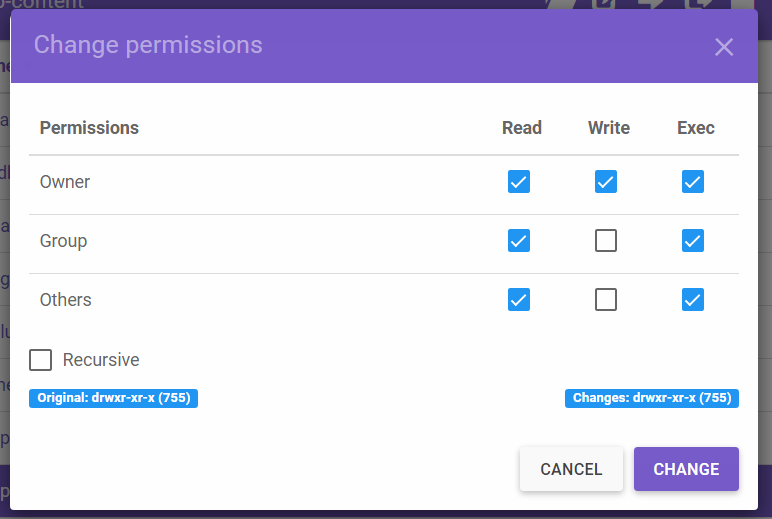
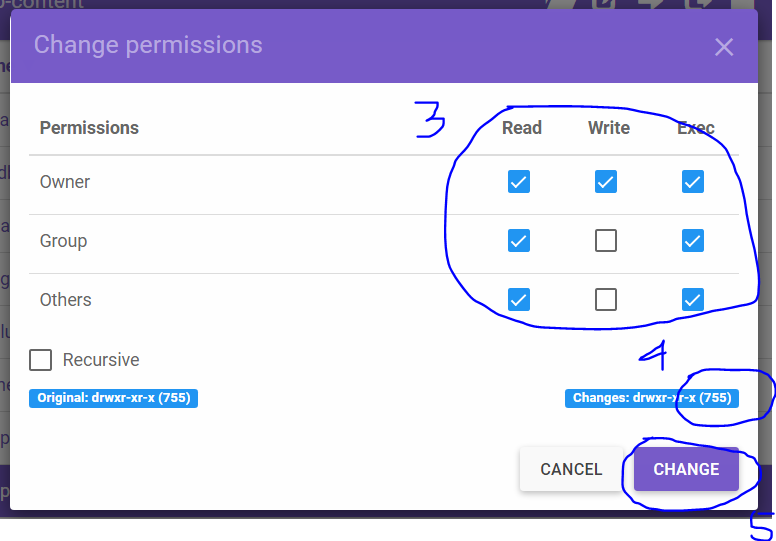
update

diff --git a/README.md b/README.md
@@ -22,5 +22,8 @@ Rubah permission menjadi 755. [Ganti Permission di Hostinger.co.id](https://www.
 
 2. Pilih icon gembok sesuai gambar diatas
 
+maka akan muncul gambar seperti berikut 
+
+![Alt Text](https://raw.githubusercontent.com/gazz96/furnioo/master/images/02.%20change-permission.PNG "Change Permission 2")
 
 3. Penamaan filter pada wordpress di usahakan tidak lebih dari 100 character untuk penamaan file disarankan hanya menggunakan huruf, angka, simbol dash(-), symbol underscore (_)
